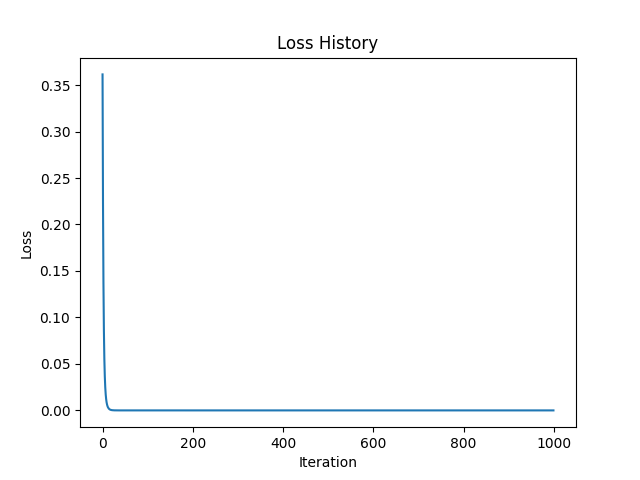
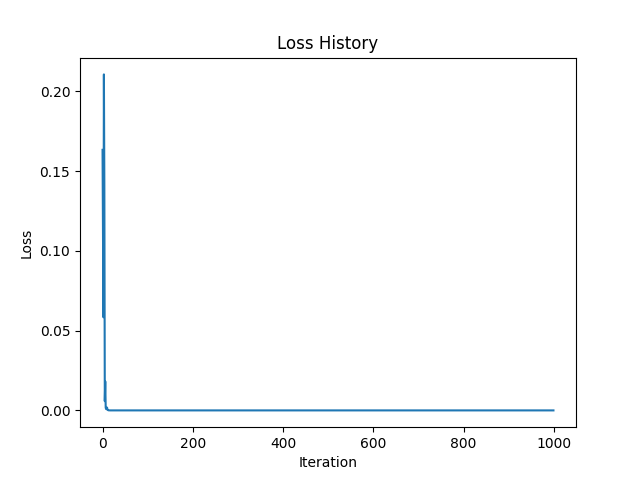
testing

diff --git a/1/main.py b/1/main.py
@@ -131,7 +131,7 @@ class MLP:
 
 input_data = [Value(1.0), Value(2.0), Value(3.0)]
 expected_output = [Value(0.5)]
-mlp = MLP(nin=3, nout=1, nhidden=5, nhin=5)
+mlp = MLP(nin=3, nout=1, nhidden=10, nhin=10)
 loss_history = []
 
 for i in range(1000):
